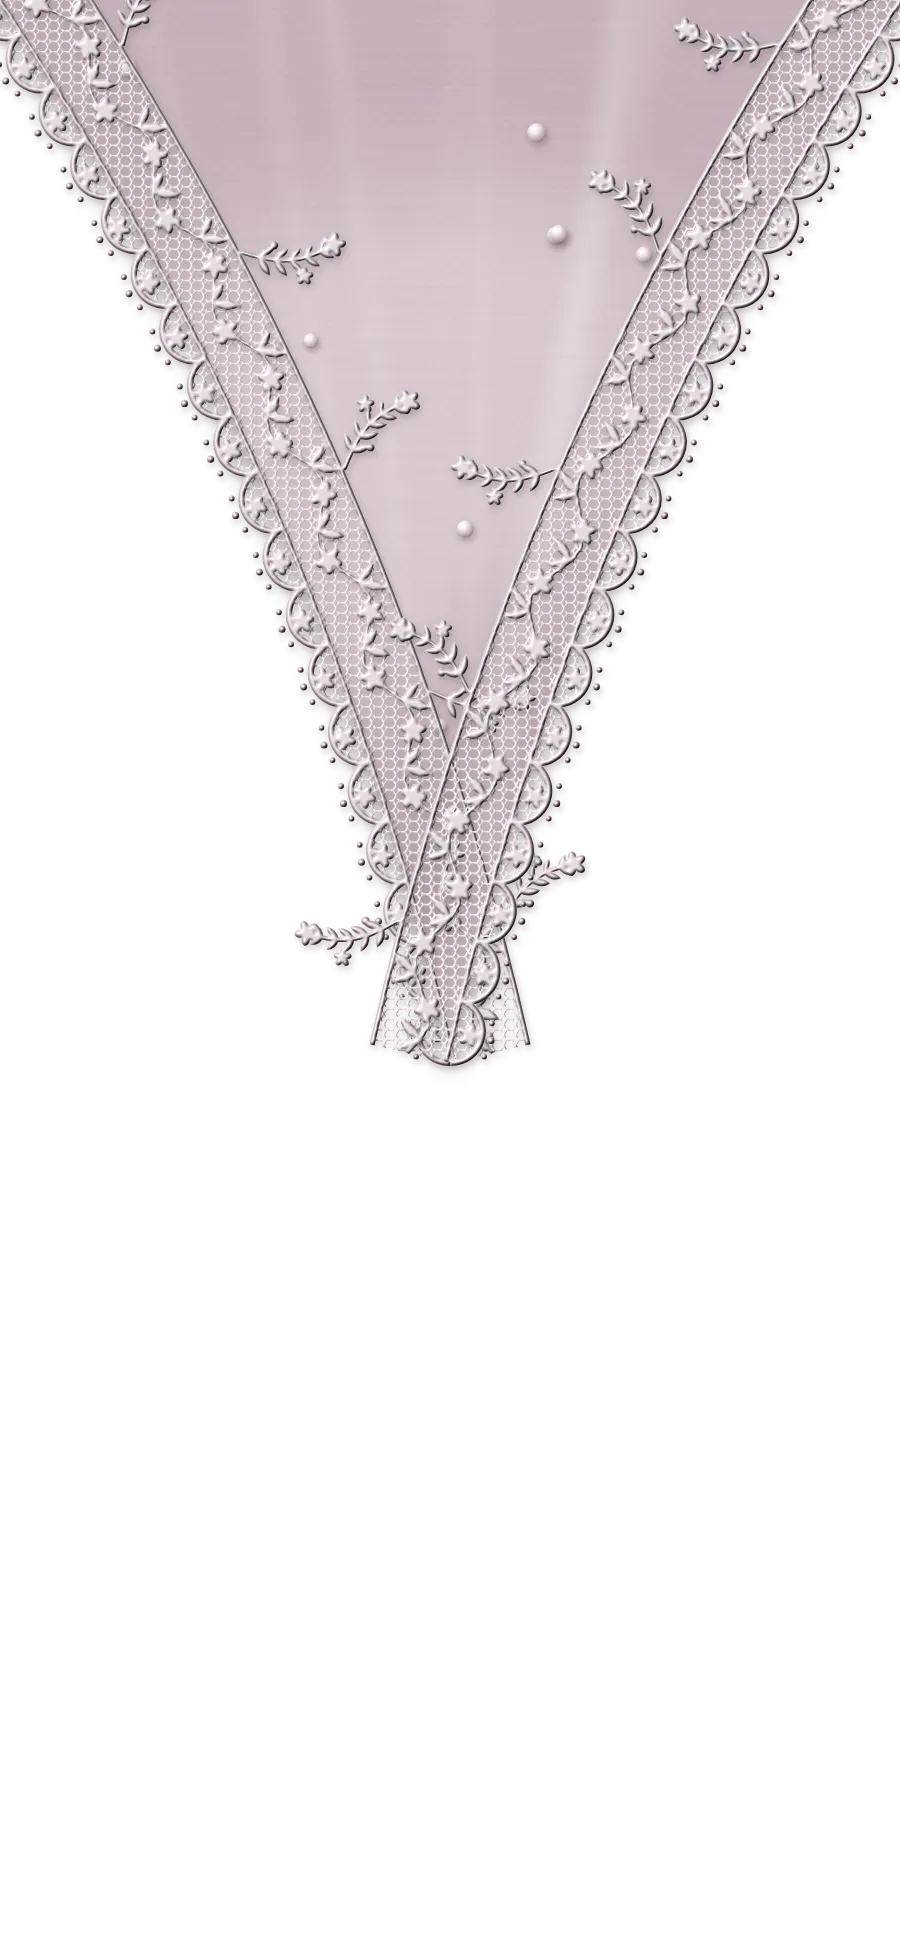
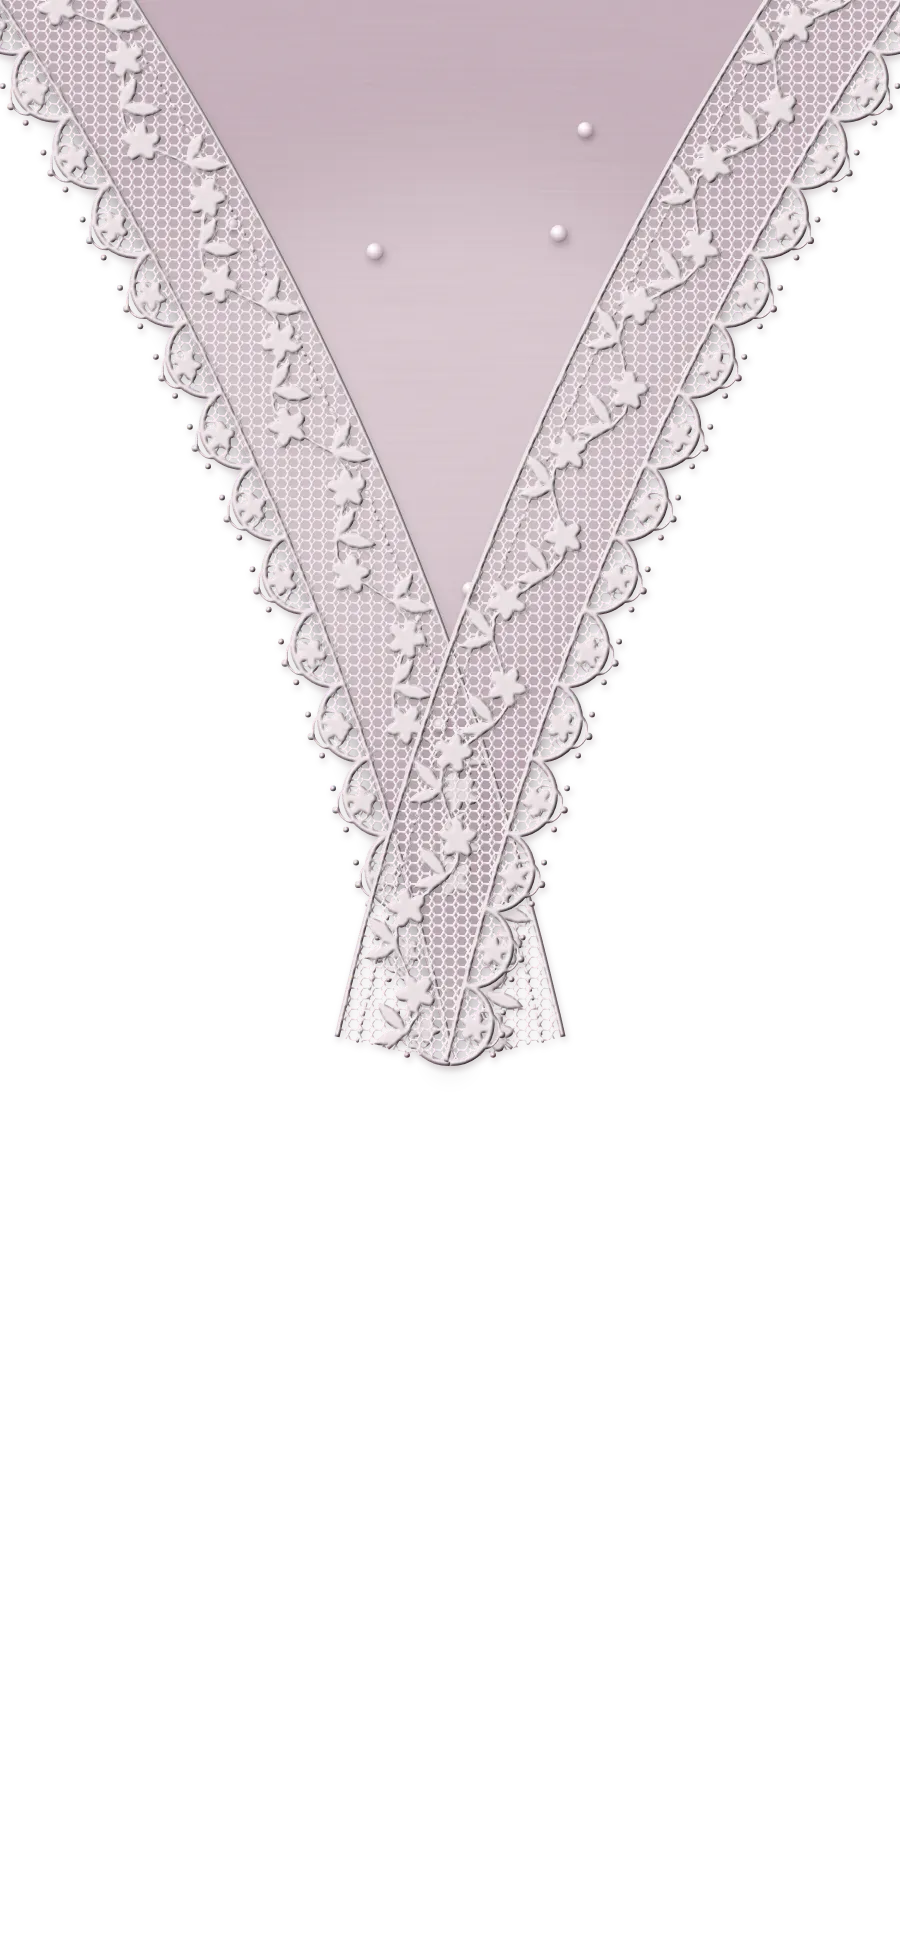
Softer lace envelope; RSVP saves to Google Sheet when rsvp_url is set in settings
Claude-Session: https://claude.ai/code/session_012TaZ8zuKBP6pkFoWipGzvm

Changed region(s): [[0.0, 0.0, 1.0, 0.5538], [0.4044, 0.1231, 0.4356, 0.1538]]

diff --git a/_src/studio.html b/_src/studio.html
@@ -19,14 +19,14 @@ function f(n){return n.toFixed(1)}
 var DEFS='<defs>'+
 '<filter id="emb" x="-10%" y="-10%" width="120%" height="120%" color-interpolation-filters="sRGB">'+
  '<feGaussianBlur in="SourceAlpha" stdDeviation="0.9" result="b"/>'+
- '<feSpecularLighting in="b" surfaceScale="1.8" specularConstant=".45" specularExponent="22" lighting-color="#ffffff" result="sp"><feDistantLight azimuth="225" elevation="42"/></feSpecularLighting>'+
+ '<feSpecularLighting in="b" surfaceScale="1.4" specularConstant=".28" specularExponent="26" lighting-color="#ffffff" result="sp"><feDistantLight azimuth="225" elevation="42"/></feSpecularLighting>'+
  '<feComposite in="sp" in2="SourceAlpha" operator="in" result="sp2"/>'+
- '<feDiffuseLighting in="b" surfaceScale="1.7" diffuseConstant="1.08" lighting-color="#ffffff" result="df"><feDistantLight azimuth="225" elevation="62"/></feDiffuseLighting>'+
+ '<feDiffuseLighting in="b" surfaceScale="1.3" diffuseConstant="1.12" lighting-color="#ffffff" result="df"><feDistantLight azimuth="225" elevation="62"/></feDiffuseLighting>'+
  '<feComposite in="df" in2="SourceAlpha" operator="in" result="df2"/>'+
  '<feBlend in="SourceGraphic" in2="df2" mode="multiply" result="m"/>'+
- '<feComposite in="m" in2="sp2" operator="arithmetic" k1="0" k2="1" k3=".3" k4="0" result="lit"/>'+
+ '<feComposite in="m" in2="sp2" operator="arithmetic" k1="0" k2="1" k3=".18" k4="0" result="lit"/>'+
  '<feGaussianBlur in="SourceAlpha" stdDeviation="1.6" result="sb"/><feOffset in="sb" dx="1.2" dy="1.8" result="so"/>'+
- '<feFlood flood-color="'+PAL.shd+'" flood-opacity=".26"/><feComposite in2="so" operator="in" result="sh"/>'+
+ '<feFlood flood-color="'+PAL.shd+'" flood-opacity=".2"/><feComposite in2="so" operator="in" result="sh"/>'+
  '<feMerge><feMergeNode in="sh"/><feMergeNode in="lit"/></feMerge></filter>'+
 '<filter id="soft" x="-20%" y="-20%" width="140%" height="140%"><feGaussianBlur stdDeviation="6"/></filter>'+
 '<filter id="dropbig" x="-20%" y="-20%" width="140%" height="140%"><feGaussianBlur in="SourceAlpha" stdDeviation="7"/><feOffset dy="5" result="o"/><feFlood flood-color="#3a2230" flood-opacity=".45"/><feComposite in2="o" operator="in" result="s"/><feMerge><feMergeNode in="s"/><feMergeNode in="SourceGraphic"/></feMerge></filter>'+
@@ -98,6 +98,7 @@ function lace(cv,opt){opt=opt||{};var p=cv.p,o=cv.o,n=p.length-1,r=opt.r||16,wid
    for(var j=-1;j<=1;j+=2){var pc=add(add(m,mul(om,r*1.02)),mul(t,j*r*.55));mo+='<circle cx="'+f(pc.x)+'" cy="'+f(pc.y)+'" r="1.5"/>'}  // picots
    var pk=add(m,mul(om,r*1.12));mo+='<circle cx="'+f(pk.x)+'" cy="'+f(pk.y)+'" r="1.8"/>';
  }
+ if(opt.rich){var inner2='M';for(var k=0;k<pts.length;k++){var q=add(pts[k],mul(os[k],-wid*.82));inner2+=(k?'L':'')+f(q.x)+' '+f(q.y)}cords+='<path d="'+inner2+'" fill="none" stroke="'+PAL.lace+'" stroke-width="1.4" stroke-dasharray="1.5 3" stroke-linecap="round"/>';for(var k=0;k<ns;k++){var m=pts[k*4+2],om=os[k*4+2];var c2=add(m,mul(om,r*.62));mo+='<path d="M'+f(c2.x)+' '+f(c2.y)+'m-'+f(r*.42)+' 0a'+f(r*.42)+' '+f(r*.42)+' 0 1 0 '+f(r*.84)+' 0a'+f(r*.42)+' '+f(r*.42)+' 0 1 0 -'+f(r*.84)+' 0" fill="none" stroke="'+PAL.lace+'" stroke-width="1.1"/>'}}
  // wavy vine inside band with leaves and flowers
  var vine='M';for(var k=0;k<pts.length;k++){var w=Math.sin(k/4*Math.PI)*wid*.18,q=add(pts[k],mul(os[k],-wid*.55+w));vine+=(k?'L':'')+f(q.x)+' '+f(q.y)}
  var vin='<path d="'+vine+'" fill="none" stroke="'+PAL.lace+'" stroke-width="1.8"/>';
@@ -137,15 +138,18 @@ function edgeDist(p,poly){var m=1e9;for(var i=0,j=poly.length-1;i<poly.length;j=
 
 /* flap: corners A,B on the screen edge, apex X. free edges are gently concave curves */
 function flap(A,B,X,id,tint,bow){var cen=P((A.x+B.x+X.x)/3,(A.y+B.y+X.y)/3);bow=bow||26;
- var c1=curve(A,X,bow,P(2*X.x-cen.x,2*X.y-cen.y),40),c2=curve(X,B,bow,P(2*X.x-cen.x,2*X.y-cen.y),40);
- // outward normals must point away from the flap body
+ var c1=curve(A,X,bow,P(2*X.x-cen.x,2*X.y-cen.y),48),c2=curve(X,B,bow,P(2*X.x-cen.x,2*X.y-cen.y),48);
  function fix(cv){for(var i=0;i<cv.o.length;i++){var q=cv.p[i];if(cv.o[i].x*(q.x-cen.x)+cv.o[i].y*(q.y-cen.y)<0)cv.o[i]=mul(cv.o[i],-1)}return cv}
  c1=fix(c1);c2=fix(c2);
  var poly=c1.p.concat(c2.p.slice(1));
- var s='<g filter="url(#dropbig)"><g style="filter:brightness('+(tint||1)+')">'+satin(poly,id)+tulle([A,B],X,id)+'</g></g>';
- s+=scatterPearls(poly,X,8);
- s+=lace(c1)+lace(c2);
+ var s='<g filter="url(#dropbig)"><g style="filter:brightness('+(tint||1)+')">'+satin(poly,id)+gather(poly,X,id)+'</g></g>';
+ s+=scatterPearls(poly,X,6);
+ s+=lace(c1,{r:21,w:58,sprigs:false,rich:true})+lace(c2,{r:21,w:58,sprigs:false,rich:true});
  return s}
+/* soft gathered tulle radiating from the apex (under the seal) */
+function gather(poly,X,id){var s='<g clip-path="url(#c'+id+')">';
+ for(var i=0;i<26;i++){var a=rnd()*Math.PI*2,L=60+rnd()*150,w=6+rnd()*16;s+='<path d="M'+f(X.x)+' '+f(X.y)+'L'+f(X.x+Math.cos(a)*L)+' '+f(X.y+Math.sin(a)*L)+'" stroke="#fff" stroke-opacity="'+(.05+rnd()*.07).toFixed(2)+'" stroke-width="'+f(w)+'" stroke-linecap="round" style="filter:blur(5px)"/>'}
+ s+='<circle cx="'+f(X.x)+'" cy="'+f(X.y)+'" r="120" fill="url(#net)" opacity=".25"/></g>';return s}
 
 function seal(cx,cy,rx,ry){var pts=[],N=140;for(var i=0;i<N;i++){var t=i/N*Math.PI*2,k=1+.035*Math.sin(t*7+1)+.02*Math.sin(t*13)+.015*Math.sin(t*3+2);pts.push(f(cx+rx*1.12*k*Math.cos(t))+' '+f(cy+ry*1.12*k*Math.sin(t)))}
  var wreath='';for(var i=0;i<22;i++){var a=i/22*Math.PI*2;var x=cx+Math.cos(a)*rx*.78,y=cy+Math.sin(a)*ry*.8;wreath+=leaf(x,y,9,a+Math.PI/2+(i%2?.5:-.5));if(i%4==0)wreath+=flower(x,y,4,a)}

diff --git a/_src/build.py b/_src/build.py
@@ -50,7 +50,7 @@ S = {
    cd='Counting down to', units=['Days', 'Hours', 'Mins', 'Secs'], day='The Day', loc='Location',
    viewloc='View Location', rsvp='RSVP', rsvpsub='Kindly let us know if you can join us',
    yname='Your name', attend='Will you attend the {e}?', yes='Joyfully yes', no='Sadly no',
-   guests='Number of guests', send='Send RSVP on WhatsApp', sending='Opening WhatsApp…', yesw='Yes', now='No', gw='Guests', rsvpw='RSVP',
+   guests='Number of guests', send='Send RSVP on WhatsApp', sending='Opening WhatsApp…', send2='Send RSVP', sending2='Sending…', ok2='Thank you! Your RSVP has been received.', yesw='Yes', now='No', gw='Guests', rsvpw='RSVP',
    ok='Thank you! Please tap Send in WhatsApp to finish.', err='Sorry, it could not be sent. Please try again or message us on WhatsApp.',
    wa='Message us on WhatsApp', wamsg='Hello Ujjwal & Blesy, this is {n}.',
    thanks='With love', thankmsg='Your presence and blessings will make our celebration complete.',
@@ -62,7 +62,7 @@ S = {
    cd='शुभ घडीसम्म', units=['दिन', 'घण्टा', 'मिनेट', 'सेकेन्ड'], day='शुभ दिन', loc='स्थान',
    viewloc='स्थान हेर्नुहोस्', rsvp='उपस्थिति', rsvpsub='कृपया आफ्नो उपस्थिति जानकारी गराउनुहोस्',
    yname='तपाईंको नाम', attend='{e}मा आउनुहुन्छ?', yes='हो, आउँछु', no='माफ गर्नुहोस्, आउन सक्दिनँ',
-   guests='जम्मा व्यक्ति', send='WhatsApp मा पठाउनुहोस्', sending='WhatsApp खोल्दै…', yesw='आउँछु', now='आउन सक्दिनँ', gw='जम्मा व्यक्ति', rsvpw='उपस्थिति',
+   guests='जम्मा व्यक्ति', send='WhatsApp मा पठाउनुहोस्', sending='WhatsApp खोल्दै…', send2='पठाउनुहोस्', sending2='पठाउँदै…', ok2='धन्यवाद! तपाईंको जानकारी प्राप्त भयो।', yesw='आउँछु', now='आउन सक्दिनँ', gw='जम्मा व्यक्ति', rsvpw='उपस्थिति',
    ok='धन्यवाद! पूरा गर्न WhatsApp मा Send थिच्नुहोस्।', err='माफ गर्नुहोस्, पठाउन सकिएन। फेरि प्रयास गर्नुहोस् वा WhatsApp मा सन्देश पठाउनुहोस्।',
    wa='WhatsApp मा सन्देश पठाउनुहोस्', wamsg='नमस्ते उज्ज्वल र ब्लेसी, म {n}।',
    thanks='स्नेहसहित', thankmsg='तपाईंको उपस्थिति र आशीर्वादले हाम्रो उत्सवलाई पूर्णता दिनेछ।',
@@ -198,7 +198,7 @@ def build(page, lang, asset_prefix='/Wed/assets/', preview_fonts=None):
     evs = [dict(k=k, label=EV[k]['label'][lang], date=EV[k]['date'], bs=EV[k]['bs'][lang], time=EV[k]['time'][lang], venue=EV[k]['venue'][lang], map=EV[k]['map']) for k in P['ev']]
     url = SITE + ('/ne/' if lang == 'ne' else '/') + page + '/'
     title = P['title'][lang] + ' — ' + T['groom'] + (' र ' if lang == 'ne' else ' & ') + T['bride']
-    cfg = dict(lang=lang, ev=evs, T={k: T[k] for k in ['months', 'wd', 'units', 'viewloc', 'sending', 'ok', 'err', 'wamsg', 'need', 'dear', 'yesw', 'now', 'gw', 'rsvpw']}, wa=WA)
+    cfg = dict(lang=lang, ev=evs, T={k: T[k] for k in ['months', 'wd', 'units', 'viewloc', 'sending', 'ok', 'err', 'wamsg', 'need', 'dear', 'yesw', 'now', 'gw', 'rsvpw', 'sending2', 'ok2', 'send2']}, wa=WA)
     rows = ''
     for e in evs:
         rows += ('<div class="f"><span class="l">' + esc(T['attend'].replace('{e}', e['label'])) + '</span><div class="pills">'
@@ -313,7 +313,7 @@ if(g){document.body.classList.add('named');$('tagn').textContent=g;$('dearn').te
 var CFGURL='https://raw.githubusercontent.com/uzalstha09/Wed/config/config.json',KEY={j:'wedding',r:'reception'};
 var BASE=JSON.parse(JSON.stringify(C.ev));
 function urlOv(){C.ev.forEach(function(e){var t=(q.get(e.k+'t')||'').trim().slice(0,40),v=(q.get(e.k+'v')||'').trim().slice(0,60),m=(q.get(e.k+'m')||'').trim();if(t)e.time=t;if(v)e.venue=v;if(/^https?:\/\//i.test(m)&&!/qLXXtzq6119MEdBVA|nJAhKrkYgUaogWYY9|Rose\+Party\+Palace|0x3996842b4da06a89/.test(m))e.map=m.slice(0,600)});}
-function applyCfg(cfg){C.ev=JSON.parse(JSON.stringify(BASE));if(cfg)C.ev.forEach(function(e){var c=cfg[KEY[e.k]];if(!c)return;var L=NE?'ne':'en';if(typeof c.map==='string'&&/^https?:\/\//i.test(c.map))e.map=c.map;if(typeof c['time_'+L]==='string')e.time=c['time_'+L];if(typeof c['venue_'+L]==='string')e.venue=c['venue_'+L]});urlOv()}
+var RS='';function applyCfg(cfg){C.ev=JSON.parse(JSON.stringify(BASE));if(cfg&&typeof cfg.rsvp_url==='string'&&/^https:\/\/script\.google(usercontent)?\.com\//.test(cfg.rsvp_url))RS=cfg.rsvp_url;if(cfg)C.ev.forEach(function(e){var c=cfg[KEY[e.k]];if(!c)return;var L=NE?'ne':'en';if(typeof c.map==='string'&&/^https?:\/\//i.test(c.map))e.map=c.map;if(typeof c['time_'+L]==='string')e.time=c['time_'+L];if(typeof c['venue_'+L]==='string')e.venue=c['venue_'+L]});urlOv()}
 function D(e){return new Date(e.date+'T00:00:00')}
 function fd(d){return dv(d.getDate())+' '+T.months[d.getMonth()]+' '+dv(d.getFullYear())}
 function render(){
@@ -322,8 +322,8 @@ $('evs').innerHTML=C.ev.map(function(e,i){var d=D(e),tv=[e.time,e.venue].filter(
 $('locs').innerHTML=C.ev.map(function(e,i){var d=D(e);return '<div class="lc rv" style="--d:'+(.3+i*.2)+'s"><div class="cap">'+esc(e.label)+'</div>'+(e.venue?'<div class="vn">'+esc(e.venue)+'</div>':'')+'<div class="dt">'+T.wd[d.getDay()]+', '+fd(d)+(e.time?' · '+esc(e.time):'')+'</div>'+(e.map?'<a class="btn" href="'+esc(cm(e.map))+'" rel="noopener"><svg width="12" height="15" viewBox="0 0 12 15" fill="none" stroke="currentColor" stroke-width="1.2"><path d="M6 14s5-4.6 5-8.2A5 5 0 0 0 1 5.8C1 9.4 6 14 6 14z"/><circle cx="6" cy="6" r="1.8"/></svg>'+esc(T.viewloc)+'</a>':'')+'</div>'}).join('');
 }
 applyCfg(null);render();
-try{var cc=localStorage.getItem('wcfg');if(cc){applyCfg(JSON.parse(cc));render()}}catch(e){}
-try{fetch(CFGURL+'?t='+Math.floor(Date.now()/60000),{cache:'no-store'}).then(function(r){return r.ok?r.json():null}).then(function(cfg){if(!cfg)return;try{localStorage.setItem('wcfg',JSON.stringify(cfg))}catch(e){}applyCfg(cfg);render();var s=document.querySelectorAll('.sec.in');}).catch(function(){})}catch(e){}
+try{var cc=localStorage.getItem('wcfg');if(cc){applyCfg(JSON.parse(cc));render();if(RS){var sb0=document.querySelector('#rf .send');if(sb0)sb0.textContent=T.send2}}}catch(e){}
+try{fetch(CFGURL+'?t='+Math.floor(Date.now()/60000),{cache:'no-store'}).then(function(r){return r.ok?r.json():null}).then(function(cfg){if(!cfg)return;try{localStorage.setItem('wcfg',JSON.stringify(cfg))}catch(e){}applyCfg(cfg);render();if(RS){var sb=document.querySelector('#rf .send');if(sb)sb.textContent=T.send2}}).catch(function(){})}catch(e){}
 var tgt=D(C.ev[0]);$('cdl').textContent=C.ev[0].label;$('cdt').textContent=T.wd[tgt.getDay()]+', '+fd(tgt);
 $('cd').innerHTML=T.units.map(function(u){return '<div><b>00</b><span>'+esc(u)+'</span></div>'}).join('');
 var cb=$('cd').querySelectorAll('b');
@@ -335,6 +335,9 @@ $('rf').addEventListener('submit',function(ev){ev.preventDefault();var f=this,b=
  for(var i=0;i<C.ev.length;i++){if(!f.querySelector('input[name="attend-'+C.ev[i].k+'"]:checked')){m.textContent=T.need;return}}
  var n=($('rn').value||'').trim();if(!n){$('rn').focus();return}
  var lines=[T.rsvpw+' — '+n];C.ev.forEach(function(e){var v=f.querySelector('input[name="attend-'+e.k+'"]:checked').value;lines.push(e.label+': '+(v==='yes'?T.yesw:T.now))});lines.push(T.gw+': '+dv($('rg').value));
+ if(RS){var body=new URLSearchParams();body.append('name',n);C.ev.forEach(function(e){body.append('attend-'+e.k,f.querySelector('input[name="attend-'+e.k+'"]:checked').value)});body.append('guests',$('rg').value);body.append('page',location.pathname);body.append('lang',C.lang);if(g)body.append('link-name',g);
+  b.disabled=true;var old=b.textContent;b.textContent=T.sending2;m.textContent='';
+  fetch(RS,{method:'POST',mode:'no-cors',headers:{'Content-Type':'application/x-www-form-urlencoded'},body:body.toString()}).then(function(){m.textContent=T.ok2;f.querySelectorAll('input,select,button').forEach(function(x){x.disabled=true});b.textContent='✓'}).catch(function(){m.textContent=T.err;b.disabled=false;b.textContent=old});return}
  m.textContent=T.ok;location.href='https://wa.me/'+C.wa+'?text='+encodeURIComponent(lines.join('\n'))});
 /* reveal */
 var secs=document.querySelectorAll('.sec');
